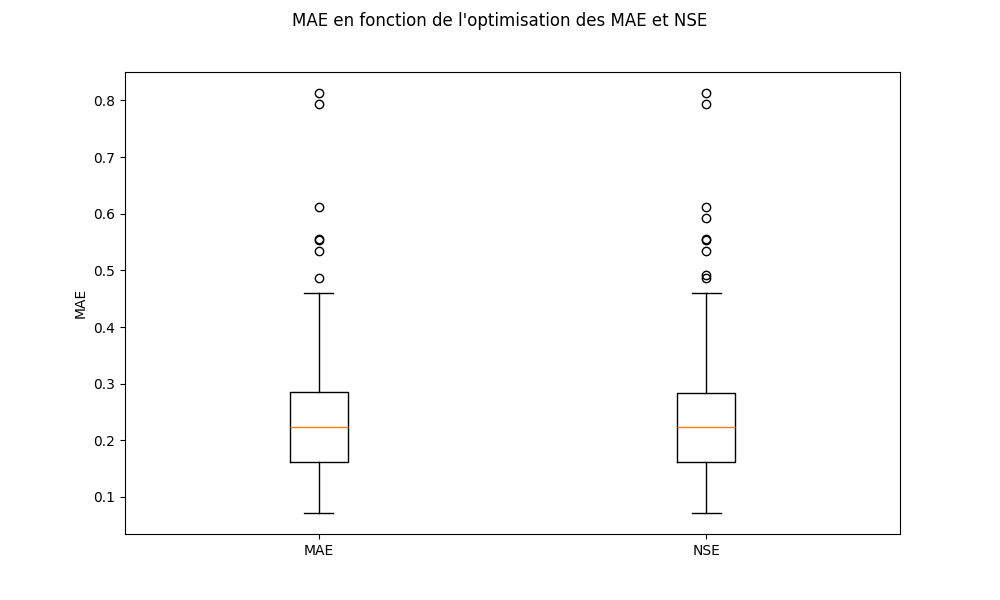
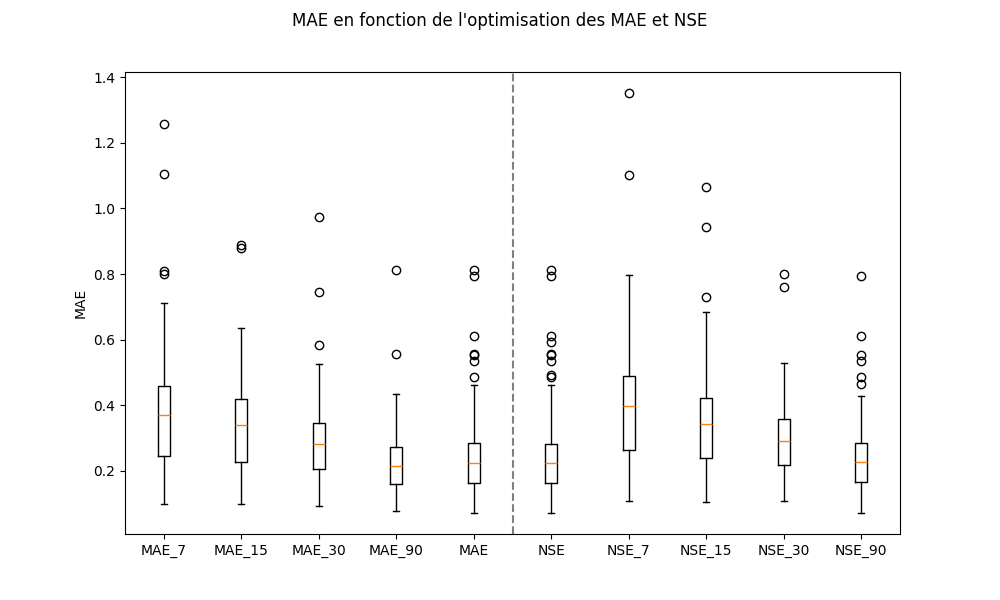
voila loic la version finale finale finale

diff --git a/plots.py b/plots.py
@@ -404,50 +404,6 @@ def plot_performance(df):
     df['ruissellement_group'] = pd.qcut(df['mean_flow_mm'] / df['mean_precip'], len(labelss), labels=labelss)
     plot_boxplot(df, 'ruissellement_group', 'Ruissellement', labelss)
 
-# def plot_boxplot(df, group_col, group_name, labels):
-#     """Plot des boites à moustaches pour les groupes définis"""
-    
-#     # Création du premier plot pour MAE
-#     mae, ax1 = plt.subplots(figsize=(10, 6))
-#     mae.suptitle(f'MAE en fonction de {group_name}')
-#     ax1.set_ylabel('MAE')
-    
-#     pos = 1
-#     for type in labels:
-#         if type !=labels[-1]:
-#             ax1.axvline(x=pos + 0.5, color='grey', linestyle='--')
-
-#         data1 = df.loc[df[group_col] == type, 'MAE_test_LSTM']
-#         ax1.boxplot(data1, positions=[pos - 0.2], tick_labels=['LSTM'])
-#         data2 = df.loc[df[group_col] == type, 'MAE_test_GR4J']
-#         ax1.boxplot(data2, positions=[pos + 0.2], tick_labels=['GR4J'])
-#         pos += 1
-
-#     mae.savefig(os.path.join(dir_plots, f'boxplot_MAE_{group_name}.png'))
-
-#     # Création du deuxième plot pour NSE
-#     nse, ax2 = plt.subplots(figsize=(10, 6))
-#     nse.suptitle(f'NSE en fonction de {group_name}')
-#     ax2.set_ylabel('NSE')
-    
-#     pos = 1
-#     for type in labels:
-#         if type !=labels[-1]:
-#             ax2.axvline(x=pos + 0.5, color='grey', linestyle='--')
-
-#         data1 = df.loc[df[group_col] == type, 'NSE_test_LSTM']
-#         ax2.boxplot(data1, positions=[pos - 0.2], tick_labels=['LSTM'])
-#         data2 = df.loc[df[group_col] == type, 'NSE_test_GR4J']
-#         ax2.boxplot(data2, positions=[pos + 0.2], tick_labels=['GR4J'])
-#         pos += 1
-
-#     nse.savefig(os.path.join(dir_plots, f'boxplot_NSE_{group_name}.png'))
-
-#     plt.close(mae)
-#     plt.close(nse)
-
-# import os
-# import matplotlib.pyplot as plt
 
 def plot_boxplot(df, group_col, group_name, labels):
     """Plot des boîtes à moustaches pour les groupes définis"""
@@ -508,13 +464,22 @@ def plot_boxplot(df, group_col, group_name, labels):
 
 def boxplot_mae_nse(df):
     """Plot des boites à moustaches pour les MAE et NSE"""
+    seq_lengths = df['seq_len_LSTM'].unique()
     mae, ax1 = plt.subplots(figsize=(10, 6))
     mae.suptitle('MAE en fonction de l\'optimisation des MAE et NSE')
     ax1.set_ylabel('MAE')
-    ax1.boxplot(df.loc[df['best_MAE_val_LSTM'] == True, 'MAE_test_LSTM'], positions=[1], tick_labels=['MAE'])
-    ax1.boxplot(df.loc[df['best_NSE_val_LSTM'] == True, 'MAE_test_LSTM'], positions=[2], tick_labels=['NSE'])
-    mae.savefig(os.path.join(dir_plots, 'boxplot_MAE_NSE.png'))
+    for i, length in enumerate(seq_lengths):
+        data = df.loc[df['seq_len_LSTM'] == length, ['MAE_test_LSTM','loss_fonction_LSTM']]
+        data_bis = data.loc[df['loss_fonction_LSTM'] == 'MAE', 'MAE_test_LSTM']
+        ax1.boxplot(data_bis, positions=[i], tick_labels=[f'MAE_{length}'])
 
+        data_ter = data.loc[df['loss_fonction_LSTM'] == 'NSE', 'MAE_test_LSTM']
+        ax1.boxplot(data_ter, positions=[i+len(seq_lengths)+2], tick_labels=[f'NSE_{length}'])
+
+    ax1.boxplot(df.loc[df['best_MAE_val_LSTM'] == True, 'MAE_test_LSTM'], positions=[len(seq_lengths)], tick_labels=['MAE'])
+    ax1.boxplot(df.loc[df['best_NSE_val_LSTM'] == True, 'MAE_test_LSTM'], positions=[len(seq_lengths)+1], tick_labels=['NSE'])
+    ax1.axvline(x=len(seq_lengths) + 0.5, color='grey', linestyle='--')
+    mae.savefig(os.path.join(dir_plots, 'boxplot_MAE_NSE.png'))
 
 # Plot 3D MAE/NSE en fonction de l'aridité, urbanisation
 def plot_3D(df):
